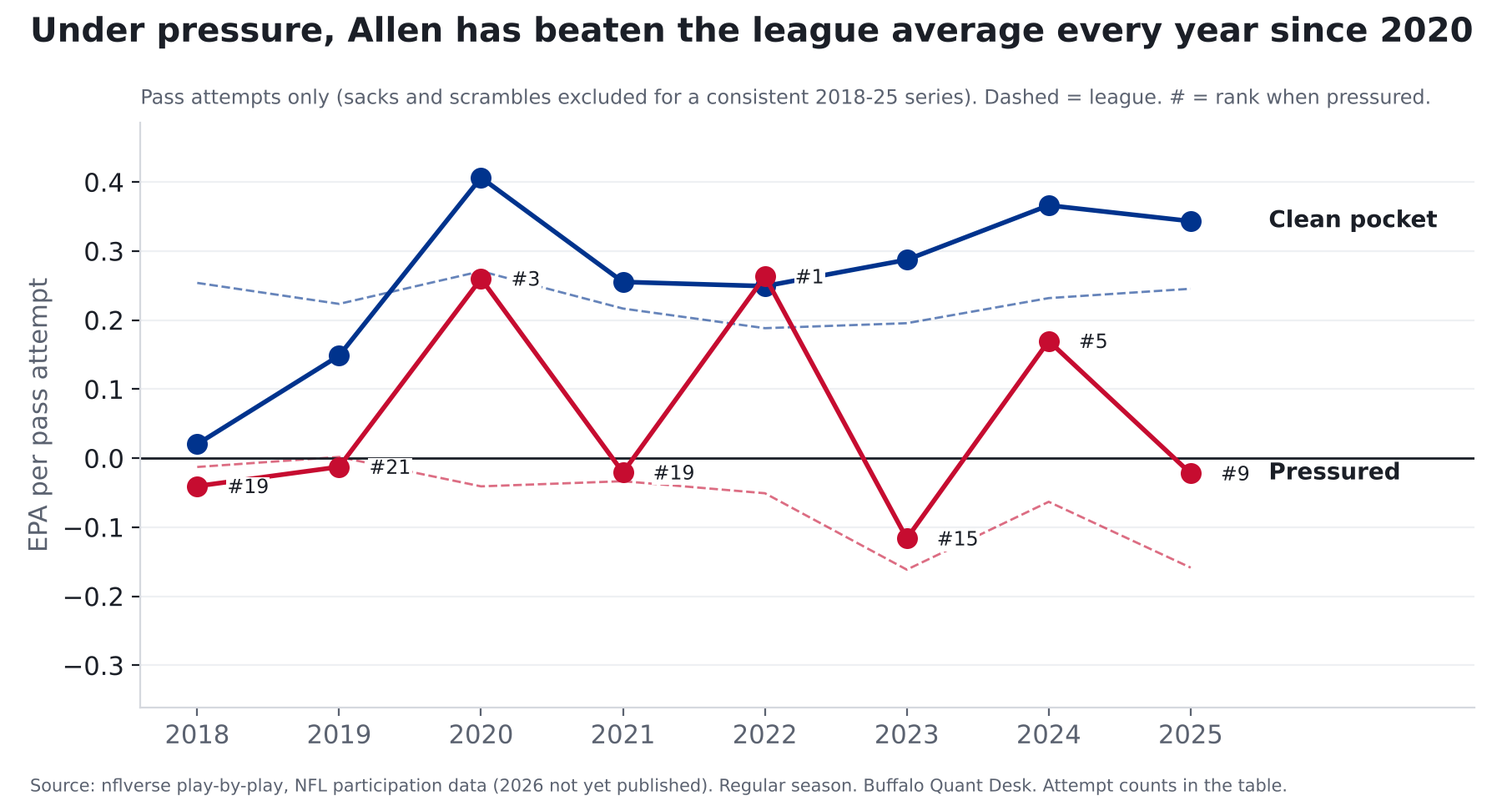
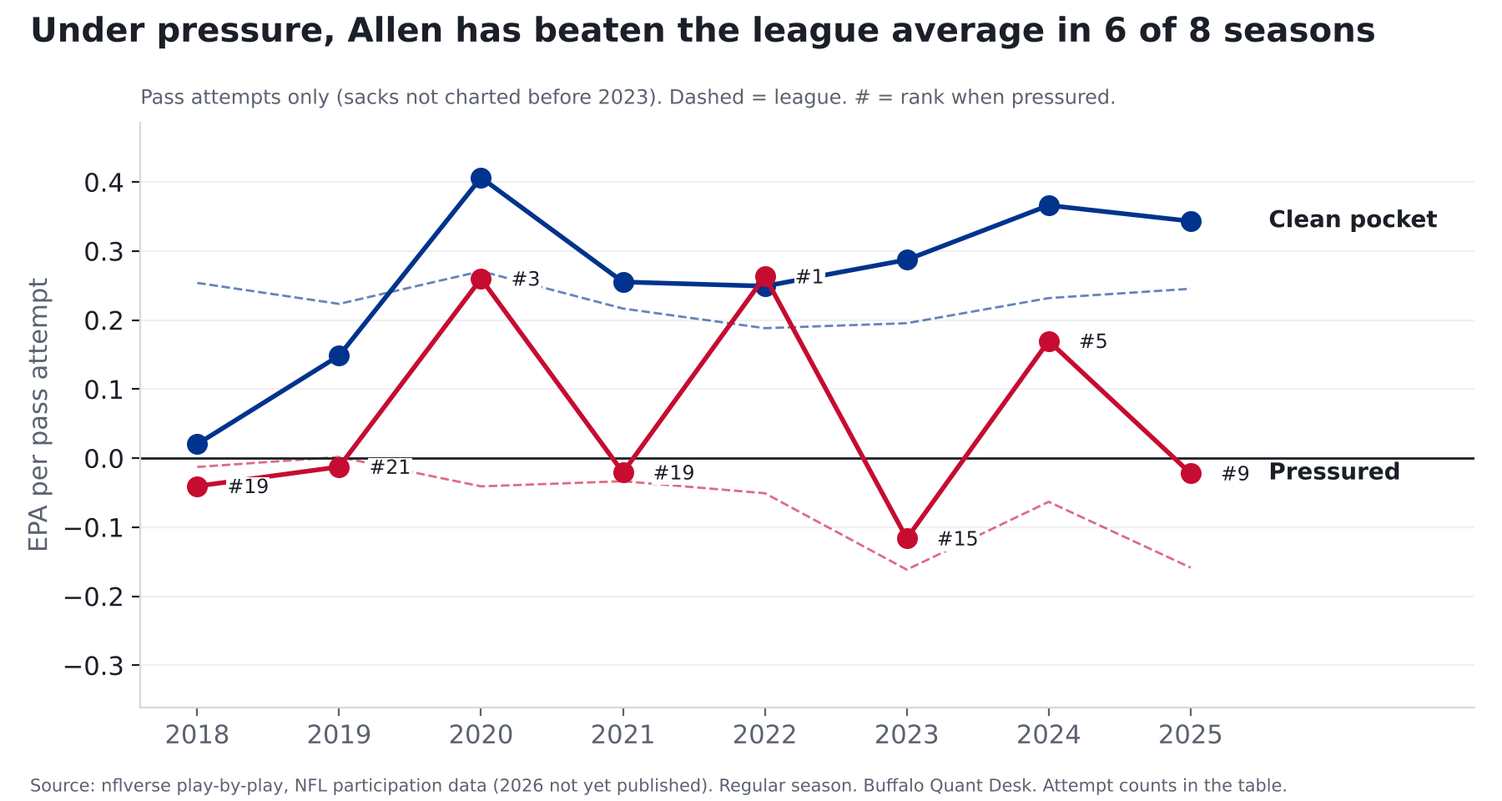
Allen article: second QA pass fixes
- Repeatability paragraph scoped; sack-rate stability added
- Pressure series described as most consistent available; 2023 charting change disclosed
- True per-attempt rates (excl. sacks); coverage on same basis with 2018-22 league averages
- Era claim marked raw EPA with league-relative edges; designed runs with league comparison
- CLAUDE.md: pass_attempt-includes-sacks and 2023 pressure-charting gotchas

QA verdict: PASS WITH FIXES; all fixes applied.

Claude-Session: https://claude.ai/code/session_01EpbAX7fMNT8LnsxAN6UoCp

Changed region(s): [[0.28, 0.0938, 0.9333, 0.1562], [0.6844, 0.0, 0.9956, 0.0625]]

diff --git a/site/analysis/josh-allen-2018-to-now.html b/site/analysis/josh-allen-2018-to-now.html
@@ -16,9 +16,11 @@ pocket more than ever, and those plays are working again after a down 2025.</str
 <li><strong>Best start in the league, by a hair.</strong> +0.303 EPA per dropback leads 30 qualifying QBs,
    +0.016 ahead of B.Purdy. With win probability limited to 10-90% (garbage time out)
    he is #2 (+0.274), behind C.Williams (+0.336 on 158).</li>
-<li><strong>Every coaching era has been better than the last.</strong> +0.130 under Daboll,
+<li><strong>In raw EPA, every coaching era has been better than the last.</strong> +0.130 under Daboll,
    +0.199 under Dorsey, +0.222 with Brady calling plays as OC, and
-   +0.303 with Brady still calling plays as head coach (7 games so far).</li>
+   +0.303 with Brady still calling plays as head coach (7 games so far). Relative to the league,
+   the edge is +0.076, +0.191,
+   +0.183 and +0.250, so the Brady-OC years were about level with Dorsey's.</li>
 <li><strong>Off script, it's working again.</strong> 30% of his dropbacks are outside the pocket (5th-most;
    league 20%), worth +0.49 EPA per play on 71 plays
    (league +0.02; 2nd behind D.Maye). In 2025 those plays were worth +0.16.</li>
@@ -255,8 +257,9 @@ the extra 5% of plays outside the pocket adds essentially nothing (-0.001 EPA pe
 The jump is in what those plays are worth, on 71 plays so far.</p>
 <h2>3. Under pressure</h2>
 <p><img alt="Pressure" src="allen-pressure.png" /></p>
-<p>The NFL's participation data does not chart sacks and scrambles before 2023, so the consistent long-run view uses
-<strong>pass attempts only</strong>:</p>
+<p>The NFL's participation data does not chart sacks and scrambles before 2023, so the most consistent long-run view
+available uses <strong>pass attempts only</strong>. Pressure charting itself also changed in 2023 (league pressure rates drop), so
+compare ranks and gaps to the league within a season rather than raw levels across years.</p>
 <div class="tablewrap"><table>
 <thead>
 <tr>
@@ -390,9 +393,10 @@ Career, pass attempts: +0.274 clean, +0.076 pressured (league +0.228 / -0.060).<
 </tr>
 </tbody>
 </table></div>
-<p><strong>How much should we read into one year under pressure?</strong> Across 182 QB season-pairs since 2018 (pass
-attempts only), pressured EPA correlates 0.24 with the next season, clean-pocket EPA 0.37.
-Pressured performance is the less repeatable of the two, so one bad year under pressure is weak evidence of decline.
+<p><strong>How much should we read into 2025?</strong> On pass attempts, how a QB does under pressure carries over less from year to
+year than clean-pocket play (0.24 vs 0.37 correlation across 182 QB season-pairs since
+2018), though the gap is not statistically firm. Sack rate is more stable (0.46 league-wide across
+209 pairs), and sacks drove his 2025 dip, so that part deserves more weight.
 2026 pressure data has not been published yet.</p>
 <div class="tablewrap"><table>
 <thead>
@@ -631,10 +635,10 @@ only; 5th unadjusted). Temperature is missing for some outdoor games in the sour
 <th>Season</th>
 <th>Int-worthy plays</th>
 <th>Per dropback</th>
-<th>Per attempt</th>
+<th>Per pass attempt (excl. sacks)</th>
 <th>League per dropback</th>
 <th>Rank</th>
-<th>Actual INT rate</th>
+<th>INT rate (per attempt)</th>
 </tr>
 </thead>
 <tbody>
@@ -642,25 +646,25 @@ only; 5th unadjusted). Temperature is missing for some outdoor games in the sour
 <td>2022</td>
 <td>34</td>
 <td>5.2%</td>
-<td>5.7%</td>
+<td>6.0%</td>
 <td>4.7%</td>
 <td>26th of 35</td>
-<td>2.3%</td>
+<td>2.5%</td>
 </tr>
 <tr>
 <td>2023</td>
 <td>25</td>
 <td>3.9%</td>
-<td>4.2%</td>
+<td>4.3%</td>
 <td>3.6%</td>
 <td>30th of 39</td>
-<td>3.0%</td>
+<td>3.1%</td>
 </tr>
 <tr>
 <td>2024</td>
 <td>13</td>
 <td>2.4%</td>
-<td>2.6%</td>
+<td>2.7%</td>
 <td>2.9%</td>
 <td>12th of 40</td>
 <td>1.2%</td>
@@ -669,19 +673,19 @@ only; 5th unadjusted). Temperature is missing for some outdoor games in the sour
 <td>2025</td>
 <td>18</td>
 <td>3.3%</td>
-<td>3.6%</td>
+<td>3.9%</td>
 <td>2.8%</td>
 <td>30th of 38</td>
-<td>2.0%</td>
+<td>2.2%</td>
 </tr>
 <tr>
 <td>2026</td>
 <td>7</td>
 <td>3.0%</td>
-<td>3.2%</td>
+<td>3.4%</td>
 <td>2.7%</td>
 <td>19th of 30</td>
-<td>2.3%</td>
+<td>2.4%</td>
 </tr>
 </tbody>
 </table></div>
@@ -761,11 +765,15 @@ average again, and his actual interception rate is up from 2024 and 2025.</p>
 <ul>
 <li>2023-25: +0.212 vs man (4th of 40), +0.210 vs zone (2nd).
   League +0.034 vs man, +0.032 vs zone.</li>
-<li>2018-22, pass attempts: +0.129 vs man (34th of 52), +0.244 vs zone (10th).</li>
+<li>2023-25, pass attempts only (same basis as below): +0.233 vs man (10th of 38),
+  +0.279 vs zone (5th).</li>
+<li>2018-22, pass attempts: +0.129 vs man (34th of 52), +0.244 vs zone
+  (10th). League +0.149 vs man, +0.156 vs zone.</li>
 </ul>
-<p>Man coverage gave him trouble early in his career. Since 2023 he has been among the best in the league against both.</p>
+<p>Early in his career he was below the league average against man coverage. Since 2023 he has been among the best in the
+league against both, on either basis.</p>
 <h2>Designed runs</h2>
-<p>EPA per designed run (not scrambles), by season: 2018: +0.13 on 36 · 2019: +0.21 on 52 · 2020: -0.07 on 51 · 2021: +0.18 on 64 · 2022: +0.08 on 56 · 2023: +0.39 on 54 · 2024: +0.47 on 51 · 2025: +0.44 on 46 · 2026: +0.13 on 28. The 2026 figure is on a small number of runs.</p>
+<p>EPA per designed run (not scrambles), by season: 2018: +0.13 on 36 (QBs league-wide -0.02) · 2019: +0.21 on 52 (QBs league-wide -0.13) · 2020: -0.07 on 51 (QBs league-wide +0.03) · 2021: +0.18 on 64 (QBs league-wide -0.01) · 2022: +0.08 on 56 (QBs league-wide +0.03) · 2023: +0.39 on 54 (QBs league-wide -0.10) · 2024: +0.47 on 51 (QBs league-wide -0.04) · 2025: +0.44 on 46 (QBs league-wide -0.03) · 2026: +0.13 on 28 (QBs league-wide +0.05). The 2026 figure is on a small number of runs.</p>
 <h2>Method and caveats</h2>
 <ul>
 <li>Players are identified by NFL player ID; the source spells Allen two ways in some 2019 and 2021 games.</li>
@@ -774,9 +782,9 @@ average again, and his actual interception rate is up from 2024 and 2025.</p>
 <li>Pressure, coverage and time to throw come from NFL participation data (2018-25). Before 2023 it does not chart sacks
   or scrambles, which is why the long-run pressure series uses pass attempts only.</li>
 <li>Out-of-pocket, play action and interception-worthy plays come from FTN charting (2022+).</li>
-<li>Weather bands: temperature 32F and below, 33-45, 46-60, 61-75, 76+; wind 0-9, 10-14, 15+ mph. Domes and roofs excluded.</li>
+<li>Weather bands: temperature 32F and below, 33-45, 46-60, 61-75, 76+; wind 0-9, 10-14, 15+ mph. Fixed domes and closed roofs excluded; open-roof games kept.</li>
 <li>Coaching eras checked against reporting on the November 2023 coordinator change and the 2026 staff.</li>
-<li>Independently reviewed by our QA process before publication.</li>
+<li>Independently reviewed by our QA process before publication: every number recomputed from source data.</li>
 </ul></main>
 <footer><div class="wrap">Buffalo Quant Desk. Every number is computed from public play-by-play
 (nflverse). Analysis, not wagering advice. Not affiliated with the Buffalo Bills,

diff --git a/src/reports/allen.py b/src/reports/allen.py
@@ -58,6 +58,11 @@ def pressure_tables(d):
     nx = g.copy(); nx["season"] -= 1
     m = g.merge(nx, on=["qb_id", "season"], suffixes=("", "_n"))
     yoy = {"pairs": len(m), "pres": m.epa_pres.corr(m.epa_pres_n), "clean": m.epa_clean.corr(m.epa_clean_n)}
+    # sack rate stability (league QB-seasons, 200+ dropbacks)
+    sk = d.groupby(["season", "qb_id"]).agg(db=("epa", "size"), sr=("sack", "mean")).reset_index()
+    sk = sk[sk.db >= 200]; skn = sk.copy(); skn["season"] -= 1
+    sm = sk.merge(skn, on=["qb_id", "season"], suffixes=("", "_n"))
+    yoy["sack"] = sm.sr.corr(sm.sr_n); yoy["sack_pairs"] = len(sm)
     return g, lg, h, yoy
 
 
@@ -126,7 +131,7 @@ def chart_weather(wq, rank):
     fig.tight_layout(rect=(0, 0.03, 1, 1)); fig.savefig(OUT / "allen-weather.png"); plt.close(fig)
 
 
-def chart_pressure(ap, lg):
+def chart_pressure(ap, lg, edges):
     fig, ax = plt.subplots(figsize=(9, 4.8), dpi=200)
     x = [str(s) for s in ap.season]
     ax.plot(x, ap.epa_clean, color=BLUE, lw=2, marker="o", ms=8, zorder=3)
@@ -141,9 +146,9 @@ def chart_pressure(ap, lg):
     ax.axhline(0, color=INK, lw=1); ax.set_xlim(-0.4, len(x) + 1.0)
     ax.set_ylim(min(ap.epa_pres.min(), lg[1.0].min()) - 0.2, ap.epa_clean.max() + 0.08)
     ax.set_ylabel("EPA per pass attempt"); ax.grid(axis="y", color="#EEF0F3"); ax.set_axisbelow(True)
-    fig.suptitle("Under pressure, Allen has beaten the league average every year since 2020", x=0.02, ha="left",
+    fig.suptitle(f"Under pressure, Allen has beaten the league average in {int((edges > 0).sum())} of {len(edges)} seasons", x=0.02, ha="left",
                  fontsize=14.5, fontweight="bold", color=INK)
-    ax.set_title("Pass attempts only (sacks and scrambles excluded for a consistent 2018-25 series). "
+    ax.set_title("Pass attempts only (sacks not charted before 2023). "
                  "Dashed = league. # = rank when pressured.", loc="left", fontsize=8.6, color=MUTED, pad=8)
     foot(fig, "Source: nflverse play-by-play, NFL participation data (2026 not yet published). Regular season. Buffalo Quant Desk. Attempt counts in the table.")
     fig.tight_layout(rect=(0, 0.03, 1, 1)); fig.savefig(OUT / "allen-pressure.png"); plt.close(fig)
@@ -235,9 +240,10 @@ def main():
 
     # ---- 5. turnovers (FTN 2022+)
     iw_rows = []
+    fd = fd.assign(_att=((fd.pass_attempt == 1) & (fd.sack == 0)).astype(int))
     for s, x in fd.groupby("season"):
         q = x.groupby("qb_id").agg(db=("epa", "size"), iw=("is_interception_worthy", "mean"),
-                                   att=("pass_attempt", "sum"), iwn=("is_interception_worthy", "sum"),
+                                   att=("_att", "sum"), iwn=("is_interception_worthy", "sum"),
                                    ints=("interception", "sum")).reset_index()
         q = q[q.db >= (150 if s == 2026 else 200)]
         q["rk"] = q.iw.rank(method="min").astype(int)  # 1 = fewest
@@ -260,18 +266,27 @@ def main():
         return q
     c_rec = cov_rank(cv[cv.season >= 2023], 150, 300)
     c_old = cov_rank(cv[(cv.season <= 2022) & (cv.sack == 0) & (cv.qb_scramble == 0)], 150, 300)
-    cr, co = c_rec.loc[ALLEN_ID], c_old.loc[ALLEN_ID]
+    c_rec_pa = cov_rank(cv[(cv.season >= 2023) & (cv.sack == 0) & (cv.qb_scramble == 0)], 150, 300)
+    cr, co, crp = c_rec.loc[ALLEN_ID], c_old.loc[ALLEN_ID], c_rec_pa.loc[ALLEN_ID]
+    old_pa = cv[(cv.season <= 2022) & (cv.sack == 0) & (cv.qb_scramble == 0)]
+    lg_cov_old = old_pa.groupby("man_zone").epa.mean()
     lg_cov_rec = cv[cv.season >= 2023].groupby("man_zone").epa.mean()
     cs = cv[cv.qb_id == ALLEN_ID].groupby(["season", "man_zone"]).epa.agg(["size", "mean"]).unstack("man_zone")
 
     # ---- designed runs
     runs = allen_runs()
     runs_s = runs[runs.qb_scramble == 0].groupby("season").epa.agg(["size", "mean"])
+    from src.db import query
+    qbr = query("""SELECT p.season, p.epa FROM clean_plays p JOIN raw_pbp r ON r.game_id = p.game_id AND r.play_id = p.play_id
+                   JOIN (SELECT DISTINCT passer_player_id AS pid FROM raw_pbp WHERE passer_player_id IS NOT NULL
+                         GROUP BY passer_player_id HAVING COUNT(*) >= 200) q ON q.pid = r.rusher_player_id
+                   WHERE p.season_type='REG' AND p.rush = 1 AND COALESCE(r.qb_scramble, 0) = 0""")
+    lg_run = qbr.groupby("season").epa.mean()
 
     chart_seasons(sr, lg_db, wk, int(af26.rk))
     chart_offscript(off, lg_oop_rate, lg_oop_epa)
     chart_weather(wq, w_rank)
-    chart_pressure(ap, lg_p)
+    chart_pressure(ap, lg_p, edges)
 
     # ---- text
     e = eras
@@ -291,7 +306,7 @@ def main():
     iw_rowsmd = "\n".join(f"| {r['season']} | {r['iwn']} | {r['per_db']:.1%} | {r['per_att']:.1%} | {r['lg']:.1%} | {ordn(r['rk'])} of {r['n']} | {r['int_rate']:.1%} |" for r in iw_rows)
     sack_rows = "\n".join(f"| {s} | {sack[s]:.1%} | {lg_sack[s]:.1%} |" for s in sack.index)
     c_rows = "\n".join(f"| {s} | {int(r[('size', 'MAN_COVERAGE')])} | {r[('mean', 'MAN_COVERAGE')]:+.3f} | {int(r[('size', 'ZONE_COVERAGE')])} | {r[('mean', 'ZONE_COVERAGE')]:+.3f} |" for s, r in cs.iterrows())
-    run_line = " · ".join(f"{s}: {r['mean']:+.2f} on {int(r['size'])}" for s, r in runs_s.iterrows())
+    run_line = " · ".join(f"{s}: {r['mean']:+.2f} on {int(r['size'])} (QBs league-wide {lg_run[s]:+.2f})" for s, r in runs_s.iterrows())
     roof_line = " · ".join(f"{k.replace('closed', 'closed retractable roof').replace('dome', 'fixed dome')}: {roof.loc[k, 'epa']:+.3f} in {int(roof.loc[k, 'games'])} games (league {lg_roof[k]:+.3f})"
                            for k in ["dome", "closed", "open", "outdoors"] if k in roof.index)
     p24, p25 = af.loc[2024], af.loc[2025]
@@ -313,9 +328,11 @@ pocket more than ever, and those plays are working again after a down 2025.**
 1. **Best start in the league, by a hair.** {a26.v:+.3f} EPA per dropback leads {int(a26.n)} qualifying QBs,
    {a26.v - second.v:+.3f} ahead of {nm[second.qb_id]}. With win probability limited to 10-90% (garbage time out)
    he is #{af26.rk} ({af26.v:+.3f}), behind {nm[fl26.qb_id]} ({fl26.v:+.3f} on {int(fl26.db)}).
-2. **Every coaching era has been better than the last.** {e.loc['daboll', 'epa']:+.3f} under Daboll,
+2. **In raw EPA, every coaching era has been better than the last.** {e.loc['daboll', 'epa']:+.3f} under Daboll,
    {e.loc['dorsey', 'epa']:+.3f} under Dorsey, {e.loc['brady_oc', 'epa']:+.3f} with Brady calling plays as OC, and
-   {e.loc['brady_hc', 'epa']:+.3f} with Brady still calling plays as head coach (7 games so far).
+   {e.loc['brady_hc', 'epa']:+.3f} with Brady still calling plays as head coach (7 games so far). Relative to the league,
+   the edge is {e.loc['daboll', 'epa'] - lg_era['daboll']:+.3f}, {e.loc['dorsey', 'epa'] - lg_era['dorsey']:+.3f},
+   {e.loc['brady_oc', 'epa'] - lg_era['brady_oc']:+.3f} and {e.loc['brady_hc', 'epa'] - lg_era['brady_hc']:+.3f}, so the Brady-OC years were about level with Dorsey's.
 3. **Off script, it's working again.** {o26a.oop:.0%} of his dropbacks are outside the pocket ({ordn(oop_rk26)}-most;
    league {lg_oop_rate[2026]:.0%}), worth {o26a.epa_oop:+.2f} EPA per play on {int(o26a.n_oop)} plays
    (league {lg_oop_epa[2026]:+.2f}; {ordn(oe_rk)} behind {nm[oe_top]}). In 2025 those plays were worth {o25.epa_oop:+.2f}.
@@ -359,8 +376,9 @@ The jump is in what those plays are worth, on {int(o26a.n_oop)} plays so far.
 
 ![Pressure](allen-pressure.png)
 
-The NFL's participation data does not chart sacks and scrambles before 2023, so the consistent long-run view uses
-**pass attempts only**:
+The NFL's participation data does not chart sacks and scrambles before 2023, so the most consistent long-run view
+available uses **pass attempts only**. Pressure charting itself also changed in 2023 (league pressure rates drop), so
+compare ranks and gaps to the league within a season rather than raw levels across years.
 
 | Season | Attempts | Pressured attempts | EPA clean | League | EPA pressured | League | Rank pressured |
 |---|---|---|---|---|---|---|---|
@@ -375,9 +393,10 @@ From 2023, sacks are charted, so here is the full-dropback view:
 |---|---|---|---|---|
 {f_rows}
 
-**How much should we read into one year under pressure?** Across {yoy['pairs']} QB season-pairs since 2018 (pass
-attempts only), pressured EPA correlates {yoy['pres']:.2f} with the next season, clean-pocket EPA {yoy['clean']:.2f}.
-Pressured performance is the less repeatable of the two, so one bad year under pressure is weak evidence of decline.
+**How much should we read into 2025?** On pass attempts, how a QB does under pressure carries over less from year to
+year than clean-pocket play ({yoy['pres']:.2f} vs {yoy['clean']:.2f} correlation across {yoy['pairs']} QB season-pairs since
+2018), though the gap is not statistically firm. Sack rate is more stable ({yoy['sack']:.2f} league-wide across
+{yoy['sack_pairs']} pairs), and sacks drove his 2025 dip, so that part deserves more weight.
 2026 pressure data has not been published yet.
 
 | Season | Allen sack rate | League |
@@ -415,7 +434,7 @@ By roof type: {roof_line}. The fixed-dome figure is 11 games.
 
 Interception-worthy plays, from FTN charting. Rank 1 = fewest.
 
-| Season | Int-worthy plays | Per dropback | Per attempt | League per dropback | Rank | Actual INT rate |
+| Season | Int-worthy plays | Per dropback | Per pass attempt (excl. sacks) | League per dropback | Rank | INT rate (per attempt) |
 |---|---|---|---|---|---|---|
 {iw_rowsmd}
 
@@ -432,9 +451,13 @@ average again, and his actual interception rate is up from 2024 and 2025.
 
 - 2023-25: {cr.mean_man:+.3f} vs man ({ordn(cr.man_rk)} of {len(c_rec)}), {cr.mean_zone:+.3f} vs zone ({ordn(cr.zone_rk)}).
   League {lg_cov_rec['MAN_COVERAGE']:+.3f} vs man, {lg_cov_rec['ZONE_COVERAGE']:+.3f} vs zone.
-- 2018-22, pass attempts: {co.mean_man:+.3f} vs man ({ordn(co.man_rk)} of {len(c_old)}), {co.mean_zone:+.3f} vs zone ({ordn(co.zone_rk)}).
+- 2023-25, pass attempts only (same basis as below): {crp.mean_man:+.3f} vs man ({ordn(crp.man_rk)} of {len(c_rec_pa)}),
+  {crp.mean_zone:+.3f} vs zone ({ordn(crp.zone_rk)}).
+- 2018-22, pass attempts: {co.mean_man:+.3f} vs man ({ordn(co.man_rk)} of {len(c_old)}), {co.mean_zone:+.3f} vs zone
+  ({ordn(co.zone_rk)}). League {lg_cov_old['MAN_COVERAGE']:+.3f} vs man, {lg_cov_old['ZONE_COVERAGE']:+.3f} vs zone.
 
-Man coverage gave him trouble early in his career. Since 2023 he has been among the best in the league against both.
+Early in his career he was below the league average against man coverage. Since 2023 he has been among the best in the
+league against both, on either basis.
 
 ## Designed runs
 
@@ -448,9 +471,9 @@ EPA per designed run (not scrambles), by season: {run_line}. The 2026 figure is 
 - Pressure, coverage and time to throw come from NFL participation data (2018-25). Before 2023 it does not chart sacks
   or scrambles, which is why the long-run pressure series uses pass attempts only.
 - Out-of-pocket, play action and interception-worthy plays come from FTN charting (2022+).
-- Weather bands: temperature 32F and below, 33-45, 46-60, 61-75, 76+; wind 0-9, 10-14, 15+ mph. Domes and roofs excluded.
+- Weather bands: temperature 32F and below, 33-45, 46-60, 61-75, 76+; wind 0-9, 10-14, 15+ mph. Fixed domes and closed roofs excluded; open-roof games kept.
 - Coaching eras checked against reporting on the November 2023 coordinator change and the 2026 staff.
-- Independently reviewed by our QA process before publication.
+- Independently reviewed by our QA process before publication: every number recomputed from source data.
 """
     (OUT / "2026-josh-allen.md").write_text(md)
     print(md)

diff --git a/reports/2026-josh-allen.md b/reports/2026-josh-allen.md
@@ -14,9 +14,11 @@ pocket more than ever, and those plays are working again after a down 2025.**
 1. **Best start in the league, by a hair.** +0.303 EPA per dropback leads 30 qualifying QBs,
    +0.016 ahead of B.Purdy. With win probability limited to 10-90% (garbage time out)
    he is #2 (+0.274), behind C.Williams (+0.336 on 158).
-2. **Every coaching era has been better than the last.** +0.130 under Daboll,
+2. **In raw EPA, every coaching era has been better than the last.** +0.130 under Daboll,
    +0.199 under Dorsey, +0.222 with Brady calling plays as OC, and
-   +0.303 with Brady still calling plays as head coach (7 games so far).
+   +0.303 with Brady still calling plays as head coach (7 games so far). Relative to the league,
+   the edge is +0.076, +0.191,
+   +0.183 and +0.250, so the Brady-OC years were about level with Dorsey's.
 3. **Off script, it's working again.** 30% of his dropbacks are outside the pocket (5th-most;
    league 20%), worth +0.49 EPA per play on 71 plays
    (league +0.02; 2nd behind D.Maye). In 2025 those plays were worth +0.16.
@@ -75,8 +77,9 @@ The jump is in what those plays are worth, on 71 plays so far.
 
 ![Pressure](allen-pressure.png)
 
-The NFL's participation data does not chart sacks and scrambles before 2023, so the consistent long-run view uses
-**pass attempts only**:
+The NFL's participation data does not chart sacks and scrambles before 2023, so the most consistent long-run view
+available uses **pass attempts only**. Pressure charting itself also changed in 2023 (league pressure rates drop), so
+compare ranks and gaps to the league within a season rather than raw levels across years.
 
 | Season | Attempts | Pressured attempts | EPA clean | League | EPA pressured | League | Rank pressured |
 |---|---|---|---|---|---|---|---|
@@ -100,9 +103,10 @@ From 2023, sacks are charted, so here is the full-dropback view:
 | 2024 | 539 | 151 | +0.066 | #1 of 40 |
 | 2025 | 547 | 146 | -0.382 | #15 of 38 |
 
-**How much should we read into one year under pressure?** Across 182 QB season-pairs since 2018 (pass
-attempts only), pressured EPA correlates 0.24 with the next season, clean-pocket EPA 0.37.
-Pressured performance is the less repeatable of the two, so one bad year under pressure is weak evidence of decline.
+**How much should we read into 2025?** On pass attempts, how a QB does under pressure carries over less from year to
+year than clean-pocket play (0.24 vs 0.37 correlation across 182 QB season-pairs since
+2018), though the gap is not statistically firm. Sack rate is more stable (0.46 league-wide across
+209 pairs), and sacks drove his 2025 dip, so that part deserves more weight.
 2026 pressure data has not been published yet.
 
 | Season | Allen sack rate | League |
@@ -163,13 +167,13 @@ By roof type: fixed dome: +0.419 in 11 games (league +0.037) · closed retractab
 
 Interception-worthy plays, from FTN charting. Rank 1 = fewest.
 
-| Season | Int-worthy plays | Per dropback | Per attempt | League per dropback | Rank | Actual INT rate |
+| Season | Int-worthy plays | Per dropback | Per pass attempt (excl. sacks) | League per dropback | Rank | INT rate (per attempt) |
 |---|---|---|---|---|---|---|
-| 2022 | 34 | 5.2% | 5.7% | 4.7% | 26th of 35 | 2.3% |
-| 2023 | 25 | 3.9% | 4.2% | 3.6% | 30th of 39 | 3.0% |
-| 2024 | 13 | 2.4% | 2.6% | 2.9% | 12th of 40 | 1.2% |
-| 2025 | 18 | 3.3% | 3.6% | 2.8% | 30th of 38 | 2.0% |
-| 2026 | 7 | 3.0% | 3.2% | 2.7% | 19th of 30 | 2.3% |
+| 2022 | 34 | 5.2% | 6.0% | 4.7% | 26th of 35 | 2.5% |
+| 2023 | 25 | 3.9% | 4.3% | 3.6% | 30th of 39 | 3.1% |
+| 2024 | 13 | 2.4% | 2.7% | 2.9% | 12th of 40 | 1.2% |
+| 2025 | 18 | 3.3% | 3.9% | 2.8% | 30th of 38 | 2.2% |
+| 2026 | 7 | 3.0% | 3.4% | 2.7% | 19th of 30 | 2.4% |
 
 The rate is down from the 2022 peak and was better than average in 2024, but in 2025 and 2026 it is above the league
 average again, and his actual interception rate is up from 2024 and 2025.
@@ -191,13 +195,17 @@ average again, and his actual interception rate is up from 2024 and 2025.
 
 - 2023-25: +0.212 vs man (4th of 40), +0.210 vs zone (2nd).
   League +0.034 vs man, +0.032 vs zone.
-- 2018-22, pass attempts: +0.129 vs man (34th of 52), +0.244 vs zone (10th).
+- 2023-25, pass attempts only (same basis as below): +0.233 vs man (10th of 38),
+  +0.279 vs zone (5th).
+- 2018-22, pass attempts: +0.129 vs man (34th of 52), +0.244 vs zone
+  (10th). League +0.149 vs man, +0.156 vs zone.
 
-Man coverage gave him trouble early in his career. Since 2023 he has been among the best in the league against both.
+Early in his career he was below the league average against man coverage. Since 2023 he has been among the best in the
+league against both, on either basis.
 
 ## Designed runs
 
-EPA per designed run (not scrambles), by season: 2018: +0.13 on 36 · 2019: +0.21 on 52 · 2020: -0.07 on 51 · 2021: +0.18 on 64 · 2022: +0.08 on 56 · 2023: +0.39 on 54 · 2024: +0.47 on 51 · 2025: +0.44 on 46 · 2026: +0.13 on 28. The 2026 figure is on a small number of runs.
+EPA per designed run (not scrambles), by season: 2018: +0.13 on 36 (QBs league-wide -0.02) · 2019: +0.21 on 52 (QBs league-wide -0.13) · 2020: -0.07 on 51 (QBs league-wide +0.03) · 2021: +0.18 on 64 (QBs league-wide -0.01) · 2022: +0.08 on 56 (QBs league-wide +0.03) · 2023: +0.39 on 54 (QBs league-wide -0.10) · 2024: +0.47 on 51 (QBs league-wide -0.04) · 2025: +0.44 on 46 (QBs league-wide -0.03) · 2026: +0.13 on 28 (QBs league-wide +0.05). The 2026 figure is on a small number of runs.
 
 ## Method and caveats
 
@@ -207,6 +215,6 @@ EPA per designed run (not scrambles), by season: 2018: +0.13 on 36 · 2019: +0.2
 - Pressure, coverage and time to throw come from NFL participation data (2018-25). Before 2023 it does not chart sacks
   or scrambles, which is why the long-run pressure series uses pass attempts only.
 - Out-of-pocket, play action and interception-worthy plays come from FTN charting (2022+).
-- Weather bands: temperature 32F and below, 33-45, 46-60, 61-75, 76+; wind 0-9, 10-14, 15+ mph. Domes and roofs excluded.
+- Weather bands: temperature 32F and below, 33-45, 46-60, 61-75, 76+; wind 0-9, 10-14, 15+ mph. Fixed domes and closed roofs excluded; open-roof games kept.
 - Coaching eras checked against reporting on the November 2023 coordinator change and the 2026 staff.
-- Independently reviewed by our QA process before publication.
+- Independently reviewed by our QA process before publication: every number recomputed from source data.

diff --git a/CLAUDE.md b/CLAUDE.md
@@ -95,6 +95,8 @@ and add it to this table when you do.
 - On scrambles the QB is the *rusher*: use `COALESCE(passer_player_id, rusher_player_id)` for dropbacks.
 - NFL participation data (pressure, coverage) does not chart sacks or scrambles before 2023. Use pass
   attempts only for multi-year series that cross 2022/2023, or split at 2023.
+- nflverse `pass_attempt` counts sacks. Use `pass_attempt == 1 and sack == 0` for true attempts.
+- Participation pressure charting changed definition in 2023 even for pass attempts; compare within season.
 - `raw_schedules.home_coach`/`away_coach` is stale for 2026 Bills games (still McDermott). Don't use it for eras.
 - `temp` is missing for many outdoor games (about half of 2022 and 2026). Disclose exclusions.
 - 2026 Bills play-caller is still Joe Brady (HC); Carmichael is a non-play-calling OC.
